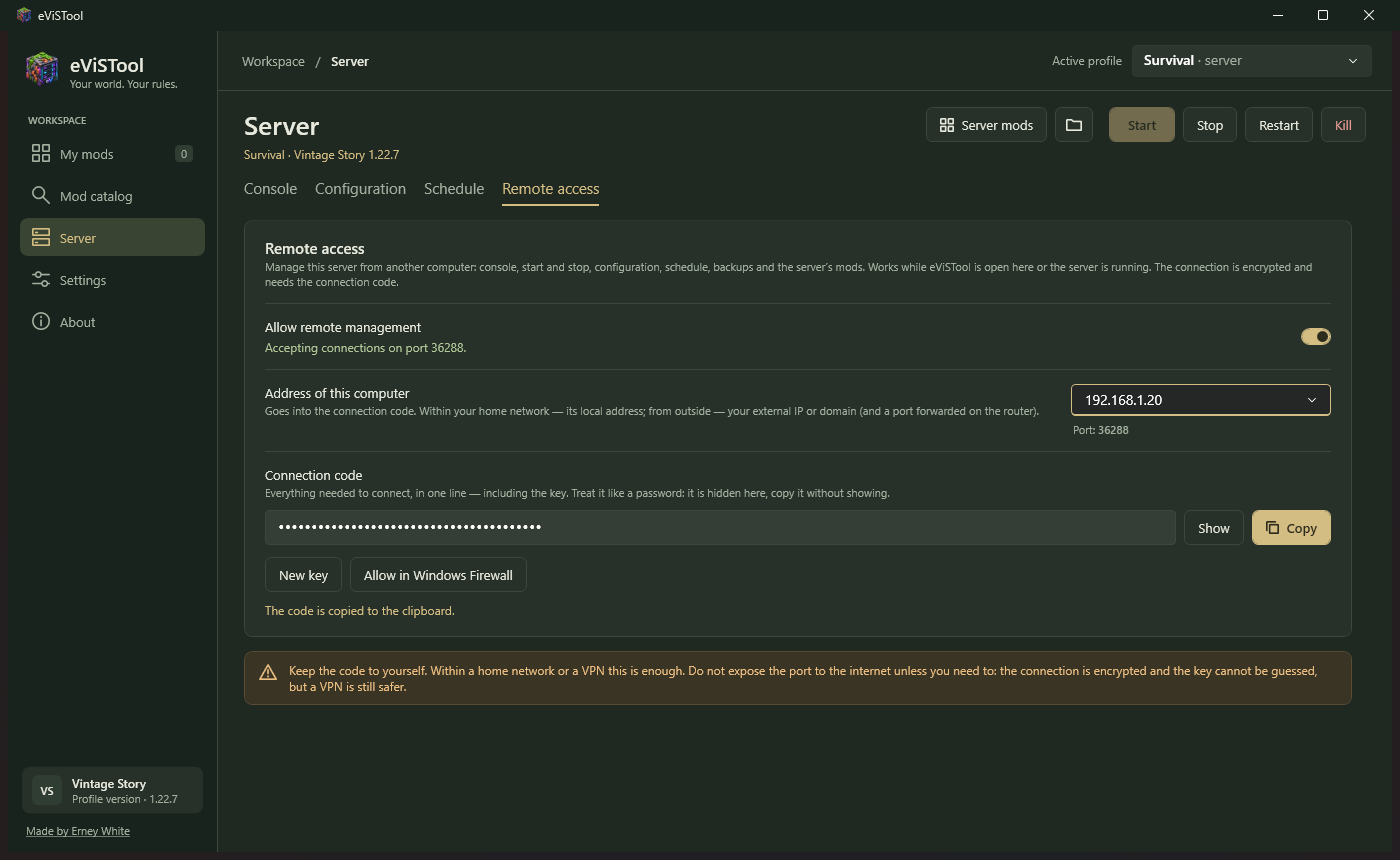
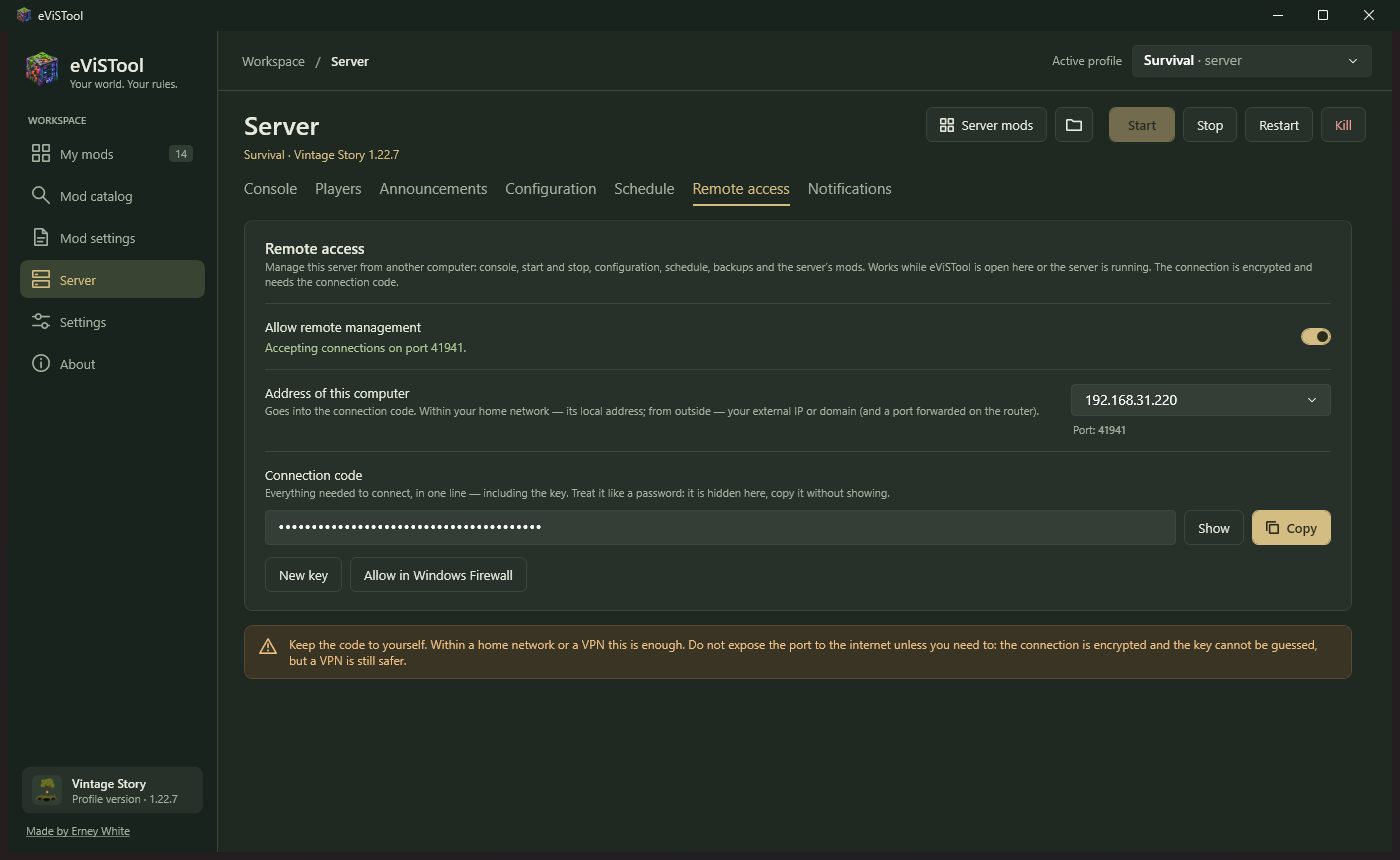
README: объявления и оповещения (каналы Telegram, Discord, ntfy, вебхук), удалённое управление; новые снимки раздела «Сервер» с текущими вкладками; подсказки удалённого доступа и копии перед перезапуском

diff --git a/README.ru.md b/README.ru.md
@@ -273,12 +273,44 @@ eViSTool считает их за каждый запуск игры или се
 найти игрока по имени умеет лишь сервер. С версии 1.20 выделенный сервер по умолчанию пускает только по белому списку,
 так что друзей, скорее всего, придётся туда добавить.
 
+**Объявления.** Сообщения в чат по расписанию: правила сервера, ссылка на Discord, время перезапуска. У каждого свой
+интервал в минутах и тумблер. Отправляет агент, так что окно можно закрыть. По умолчанию пустой сервер молчит, а игрок,
+который зашёл, не получит пачку накопившихся сообщений. Есть и **«Сказать сейчас»** — разовое объявление всем на сервере.
+
+![Объявления](docs/screenshots/announcements.png)
+
+**Оповещения.** Сервер сам сообщает о событиях туда, куда ты скажешь: упал (с модом-виновником, если его удалось найти,
+и тем, поднимет ли его сторож), не запустился, копия мира не получилась, обновлены моды, запущен или остановлен,
+скоро перезапуск, игрок зашёл или вышел. Каналы настраиваются один раз в **«Настройках» → «Оповещения» → «Добавить канал»**,
+а на вкладке сервера включаются тумблерами: строки — события, столбцы — каналы. Отправляет агент, окно можно закрыть.
+**«Проверочное с сервера»** уходит тем же путём, что и настоящие оповещения.
+
+![Оповещения](docs/screenshots/notify.png)
+
+Какие бывают каналы:
+
+- **Telegram** — сообщения от твоего бота. Создай его у @BotFather (`/newbot`) и вставь токен, потом напиши боту
+  что-нибудь и нажми **«Найти чат»**. Подходят личка, группа, канал (бот должен быть администратором) и тема форума:
+  если написать боту в нужной теме, «Найти чат» покажет её отдельной строкой.
+- **Discord** — карточки с цветной полосой в канал Discord. Настройки канала → «Интеграция» → «Вебхуки» →
+  «Копировать URL вебхука».
+- **ntfy** — push-уведомления на телефон без регистрации. Поставь приложение ntfy и подпишись на тему, которую предложит
+  eViSTool. Проблемы приходят с высоким приоритетом. Можно указать свой сервер ntfy.
+- **Вебхук** — HTTP-запрос с телом JSON на любой адрес. Есть готовые шаблоны «Обычный JSON», Slack и Home Assistant,
+  можно написать свой.
+
+![Канал оповещений](docs/screenshots/notify-channel.png)
+
+Токены и ссылки вебхуков хранятся зашифрованными для твоей учётной записи Windows и на экране не показываются.
+Сообщение собрано из частей: цвет по важности (кружок в Telegram, полоса в Discord, приоритет в ntfy), сервер,
+событие и подробности. Пишутся они на языке eViSTool того компьютера, где работает сервер.
+
 **«Моды сервера»** открывает «Мои моды» серверного профиля — та же таблица, каталог и обновления, что и для игры.
 
 ## Удалённое управление
 
 Управляй сервером на другом компьютере — домашнем ПК, старом ноутбуке, арендованной машине — как будто он рядом:
-консоль, запуск и остановка, конфигурация, расписание, резервные копии, игроки и моды сервера. Одна строка — **код подключения** —
+консоль, запуск и остановка, конфигурация, расписание, резервные копии, игроки, объявления, оповещения и моды сервера. Одна строка — **код подключения** —
 содержит всё нужное: адрес, порт, ключ и сертификат сервера. Настраивать вручную ничего не надо.
 
 ![Удалённый доступ](docs/screenshots/remote.png)
@@ -302,8 +334,10 @@ eViSTool считает их за каждый запуск игры или се
 - На компьютере с сервером должен быть открыт eViSTool или работать сервер: удалённый доступ живёт, пока жив агент.
   Ни службы, ни автозапуска нет.
 - Изменения видны в обоих окнах сами. Выключил мод со своего ПК — через пару секунд он выключен и в окне на компьютере
-  с сервером, и наоборот. С расписанием и конфигурацией так же.
+  с сервером, и наоборот. С расписанием, конфигурацией, игроками, объявлениями и оповещениями так же.
 - Моды ставятся на сервер прямо по соединению: из zip, из каталога, обновлениями и модпаками.
+- Оповещения отправляет агент на компьютере с сервером, поэтому они приходят и при выключенном твоём ПК. Каналы, которые
+  ты включил у сервера, передаются ему по защищённому соединению и там шифруются заново; обратно секреты не отдаются.
 - Обновляй eViSTool на обоих компьютерах. Агент старой версии заменяется сам, пока сервер остановлен;
   до тех пор об этом будет надпись.
 

diff --git a/README.md b/README.md
@@ -269,12 +269,43 @@ On a stopped server eViSTool edits the server files. A new player can be added b
 only the server can look a player up by name. Since 1.20 a dedicated server lets in only whitelisted players by default,
 so you will most likely need to add your friends there.
 
+**Announcements.** Chat messages on a schedule: server rules, a Discord link, the restart time. Each has its own interval
+in minutes and a switch. The agent sends them, so the window can be closed. By default an empty server stays quiet, and a player
+who joins does not get a pile of queued messages. There is also **Say now** — a one-off message to everyone on the server.
+
+![Announcements](docs/screenshots/announcements.png)
+
+**Notifications.** The server reports events wherever you tell it to: crashed (with the mod to blame, if one is found, and
+whether the watchdog starts it again), failed to start, world backup failed, mods updated, started or stopped, restart soon,
+player joined or left. Channels are set up once in **Settings → Notifications → Add channel**, and on the server tab you turn
+them on with switches: rows are events, columns are channels. The agent sends them, so the window can be closed.
+**Send a test from the server** goes the same way as the real notifications.
+
+![Notifications](docs/screenshots/notify.png)
+
+Channel types:
+
+- **Telegram** — messages from your own bot. Create one with @BotFather (`/newbot`) and paste its token, then write anything
+  to the bot and press **Find chat**. A private chat, a group, a channel (the bot must be an admin) and a forum topic all work:
+  write to the bot in the topic you want and Find chat lists it separately.
+- **Discord** — cards with a colored stripe in a Discord channel. Channel settings → Integrations → Webhooks → Copy webhook URL.
+- **ntfy** — push notifications to your phone without an account. Install the ntfy app and subscribe to the topic eViSTool
+  suggests. Problems come with high priority. You can use your own ntfy server.
+- **Webhook** — an HTTP request with a JSON body to any address. Ready-made templates: Plain JSON, Slack and Home Assistant,
+  or write your own.
+
+![Notification channel](docs/screenshots/notify-channel.png)
+
+Tokens and webhook links are stored encrypted for your Windows account and are never shown. A message is made of parts:
+a color by importance (a circle in Telegram, a stripe in Discord, priority in ntfy), the server, the event and the details.
+They are written in the language of eViSTool on the computer that runs the server.
+
 **Server mods** opens **My mods** for the server profile — the same table, catalog and updates as for the game.
 
 ## Remote management
 
 Manage a server on another computer — a home PC, a spare laptop, a rented machine — as if it were here:
-console, start and stop, configuration, schedule, backups, players and the server's mods. One string, the **connection code**,
+console, start and stop, configuration, schedule, backups, players, announcements, notifications and the server's mods. One string, the **connection code**,
 carries everything needed: address, port, key and the server's certificate. There is nothing to configure by hand.
 
 ![Remote access](docs/screenshots/remote.png)
@@ -298,8 +329,10 @@ Good to know:
 - The server computer needs eViSTool open, or its server running: remote access lives as long as the agent does.
   There is no service and no autostart.
 - Changes show up in both windows by themselves. A mod disabled from your PC appears disabled on the server computer
-  within seconds, and the other way round. The same goes for the schedule and the configuration.
+  within seconds, and the other way round. The same goes for the schedule, configuration, players, announcements and notifications.
 - Mods are installed on the server over the connection: from a zip, from the catalog, as updates and from modpacks.
+- Notifications are sent by the agent on the server computer, so they arrive even when your PC is off. The channels you turn on
+  for the server are passed to it over the secure connection and encrypted again there; secrets are never sent back.
 - Keep eViSTool updated on both computers. An agent of an older version is replaced by itself while the server is stopped;
   until then a note says so.
 
